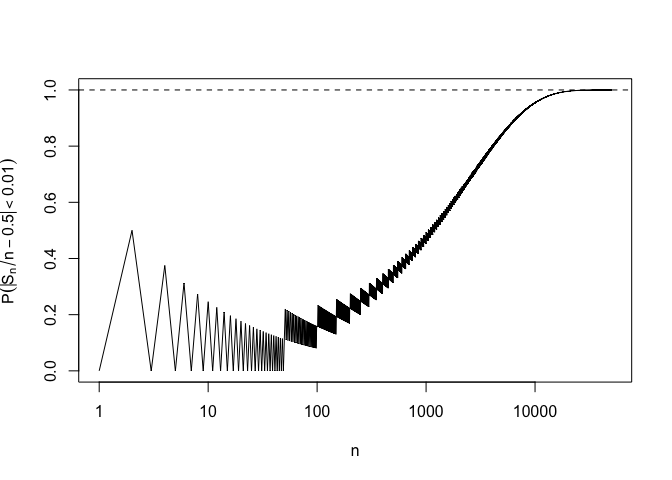
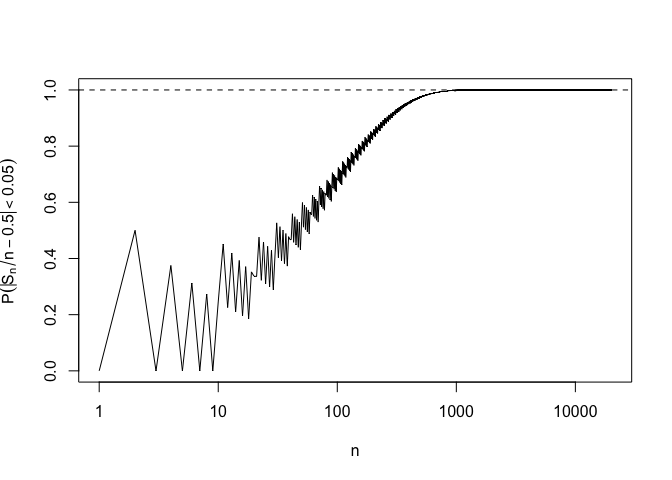
Prob Create

diff --git a/R/Probability.md b/R/Probability.md
@@ -12,17 +12,17 @@ lim<sub>*n* → ∞</sub>Pr(|*S*<sub>*n*</sub>/*n* − *μ*|&lt;*ϵ*)
 
 ``` r
 mu = 1/2
-eps = 0.01
+eps = 0.05
 
 wlln= function(n, mu, eps){
   pbinom(n*mu + n*eps, n, mu) - pbinom(n*mu - n*eps, n, mu)
 }
 
-st = vector(length=50000)
-for (n in 1:50000)
-st[n] <- wlln(n, mu, eps)
+st = vector(length=20000)
+for (n in 1:20000)
+st[n] = wlln(n, mu, eps)
 
-plot(st,log="x",ylab=expression(P(abs(S[n]/n - 0.5)  < 0.01)  ),main="",xlab="n",type="l")
+plot(st,log="x",ylab=expression(P(abs(S[n]/n - 0.5)  < 0.05)  ),main="",xlab="n",type="l")
 abline(h=1.0,lty=2)
 ```
 
